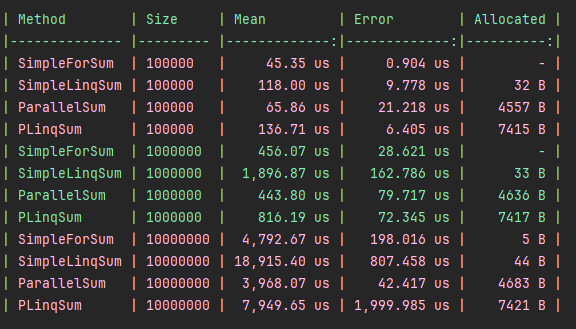
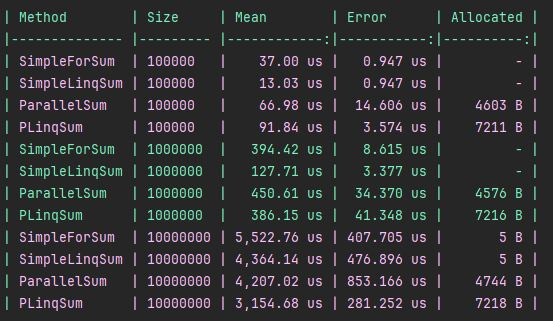
Lesson 15 - HomeWork 03

diff --git a/HomeWorks/15.HomeWork.03/HomeWork03/src/HomeWork03/ParallelBenchmark.cs b/HomeWorks/15.HomeWork.03/HomeWork03/src/HomeWork03/ParallelBenchmark.cs
@@ -6,7 +6,7 @@ namespace HomeWork03;
 [MemoryDiagnoser]
 public class ParallelBenchmark
 {
-    private int[] _data;
+    private long[] _data;
     private const int MinValue = -10_000;
     private const int MaxValue = 10_001;
 
@@ -17,7 +17,7 @@ public class ParallelBenchmark
     public void Setup()
     {
         var r = new Random(42);
-        _data = new int[Size];
+        _data = new long[Size];
         Parallel.For(0, Size, i =>
             _data[i] = r.Next(MinValue, MaxValue));
     }
@@ -37,7 +37,7 @@ public class ParallelBenchmark
     [Benchmark]
     public long SimpleLinqSum()
     {
-        return _data.Sum(e => (long)e);
+        return _data.Sum();
     }
 
     [Benchmark]
@@ -60,6 +60,6 @@ public class ParallelBenchmark
     {
         return _data
             .AsParallel()
-            .Sum(e => (long)e);
+            .Sum();
     }
 }

diff --git a/HomeWorks/15.HomeWork.03/README.md b/HomeWorks/15.HomeWork.03/README.md
@@ -43,22 +43,22 @@ BenchmarkDotNet v0.15.0, Windows 11 (10.0.26100.4061/24H2/2024Update/HudsonValle
 - IterationCount=5
 - WarmupCount=2
 
-| Method        | Size     | Mean         | Error        | Allocated |
-|-------------- |--------- |-------------:|-------------:|----------:|
- **SimpleForSum**  | **100000**   |     **45.43 μs** |     **0.955 μs** |         **-** |
-| SimpleLinqSum | 100000   |    154.82 us |    62.620 us |      32 B |
-| ParallelSum   | 100000   |     66.78 us |     9.056 us |    4431 B |
-| PLinqSum      | 100000   |    144.98 us |    22.273 us |    7404 B |
-|               |          |              |              |           |
- **SimpleForSum**  | **1000000**  |    **451.91 μs** |     **3.404 μs** |         **-** |
-| SimpleLinqSum | 1000000  |  1,635.97 us |   338.400 us |      33 B |
-| ParallelSum   | 1000000  |    536.41 us |   193.621 us |    4598 B |
-| PLinqSum      | 1000000  |    813.23 us |    66.891 us |    7417 B |
-|               |          |              |              |           |
- **SimpleForSum**  | **10000000** |  **4,798.48 μs** |    **84.874 μs** |       **5 B** |
-| SimpleLinqSum | 10000000 | 14,731.54 us | 9,478.712 us |      44 B |
-| ParallelSum   | 10000000 |  3,938.82 us |   504.898 us |    4671 B |
-| PLinqSum      | 10000000 |  8,257.57 us |   776.855 us |    7427 B |
+| Method        | Size     | Mean        | Error      | Allocated |
+|-------------- |--------- |------------:|-----------:|----------:|
+| SimpleForSum  | 100000   |    37.00 us |   0.947 us |         - |
+| **SimpleLinqSum** | **100000**   |    **13.03 us** |   **0.947 us** |         - |
+| ParallelSum   | 100000   |    66.98 us |  14.606 us |    4603 B |
+| PLinqSum      | 100000   |    91.84 us |   3.574 us |    7211 B |
+|               |          |             |            |           |
+| SimpleForSum  | 1000000  |   394.42 us |   8.615 us |         - |
+| **SimpleLinqSum** | **1000000**  |   **127.71 us** |   **3.377 us** |         - |
+| ParallelSum   | 1000000  |   450.61 us |  34.370 us |    4576 B |
+| PLinqSum      | 1000000  |   386.15 us |  41.348 us |    7216 B |
+|               |          |             |            |           |
+| SimpleForSum  | 10000000 | 5,522.76 us | 407.705 us |       5 B |
+| SimpleLinqSum | 10000000 | 4,364.14 us | 476.896 us |       5 B |
+| ParallelSum   | 10000000 | 4,207.02 us | 853.166 us |    4744 B |
+| **PLinqSum**      | **10000000** | **3,154.68 us** | **281.252 us** |    7218 B |
 
 
 
